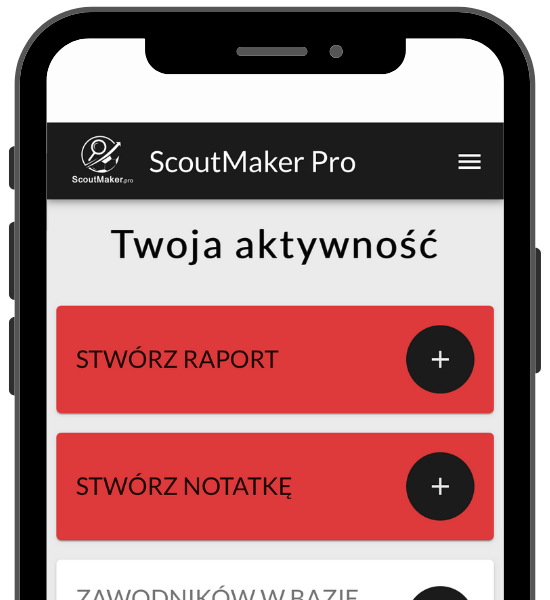
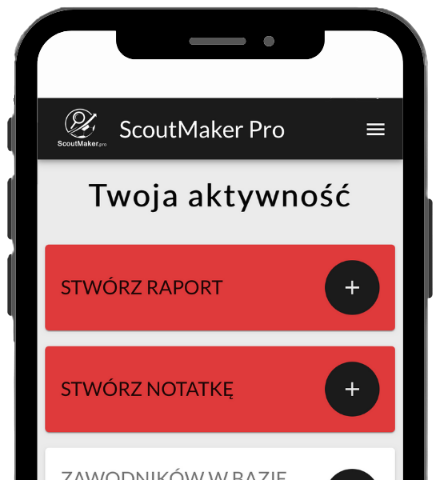
Replace phone images

diff --git a/client/src/pages/Landing/Data/data.tsx b/client/src/pages/Landing/Data/data.tsx
@@ -4,7 +4,7 @@ import {
   Money as MoneyIcon,
   DoubleArrow as ScoutingIcon,
 } from '@material-ui/icons';
-import image from '../../../assets/data-analysis-image.png';
+import phoneMockup from '../../../assets/phone1.png';
 import phoneMenuMockup from '../../../assets/phone2.png';
 import backgroundImage from '../../../assets/scouting-background.png';
 import neptunLogo from '../../../assets/neptun-logo.png';
@@ -16,7 +16,7 @@ import { Advantage, Effect } from '../types';
 export const heroData = {
   backgroundImage,
   image: {
-    src: image,
+    src: phoneMockup,
     alt: 'App dashboard view',
   },
   title: (
